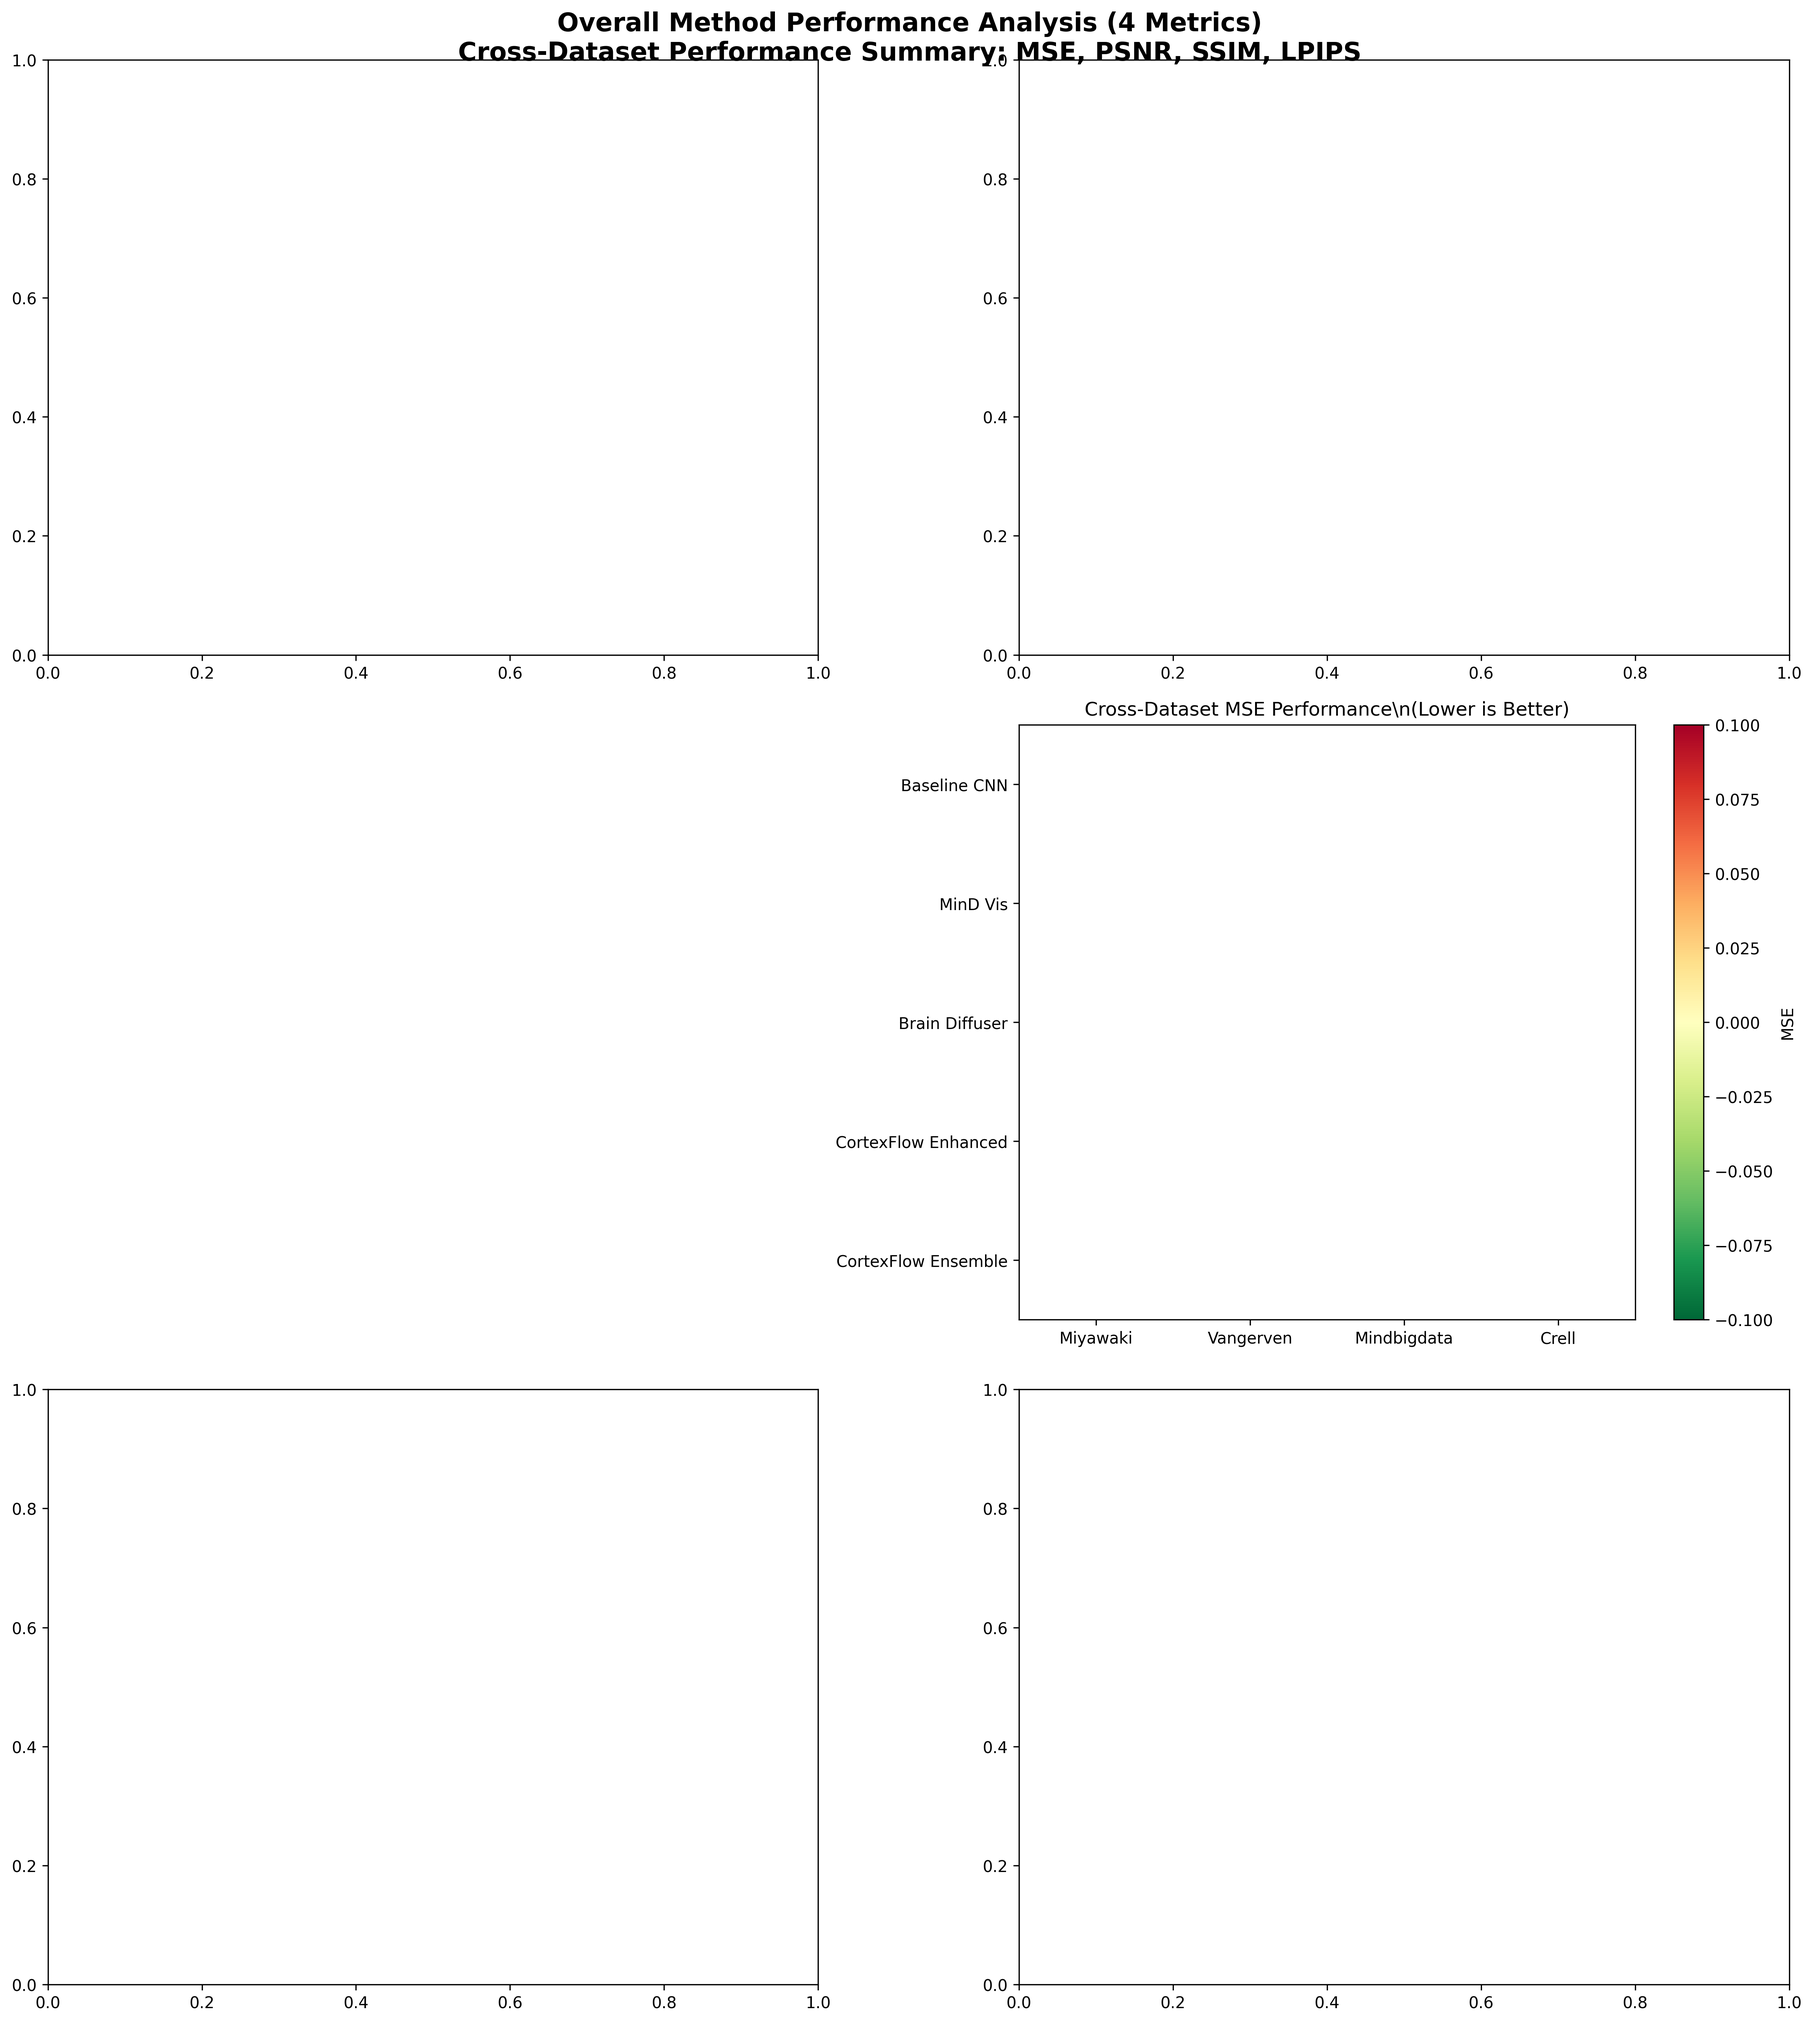
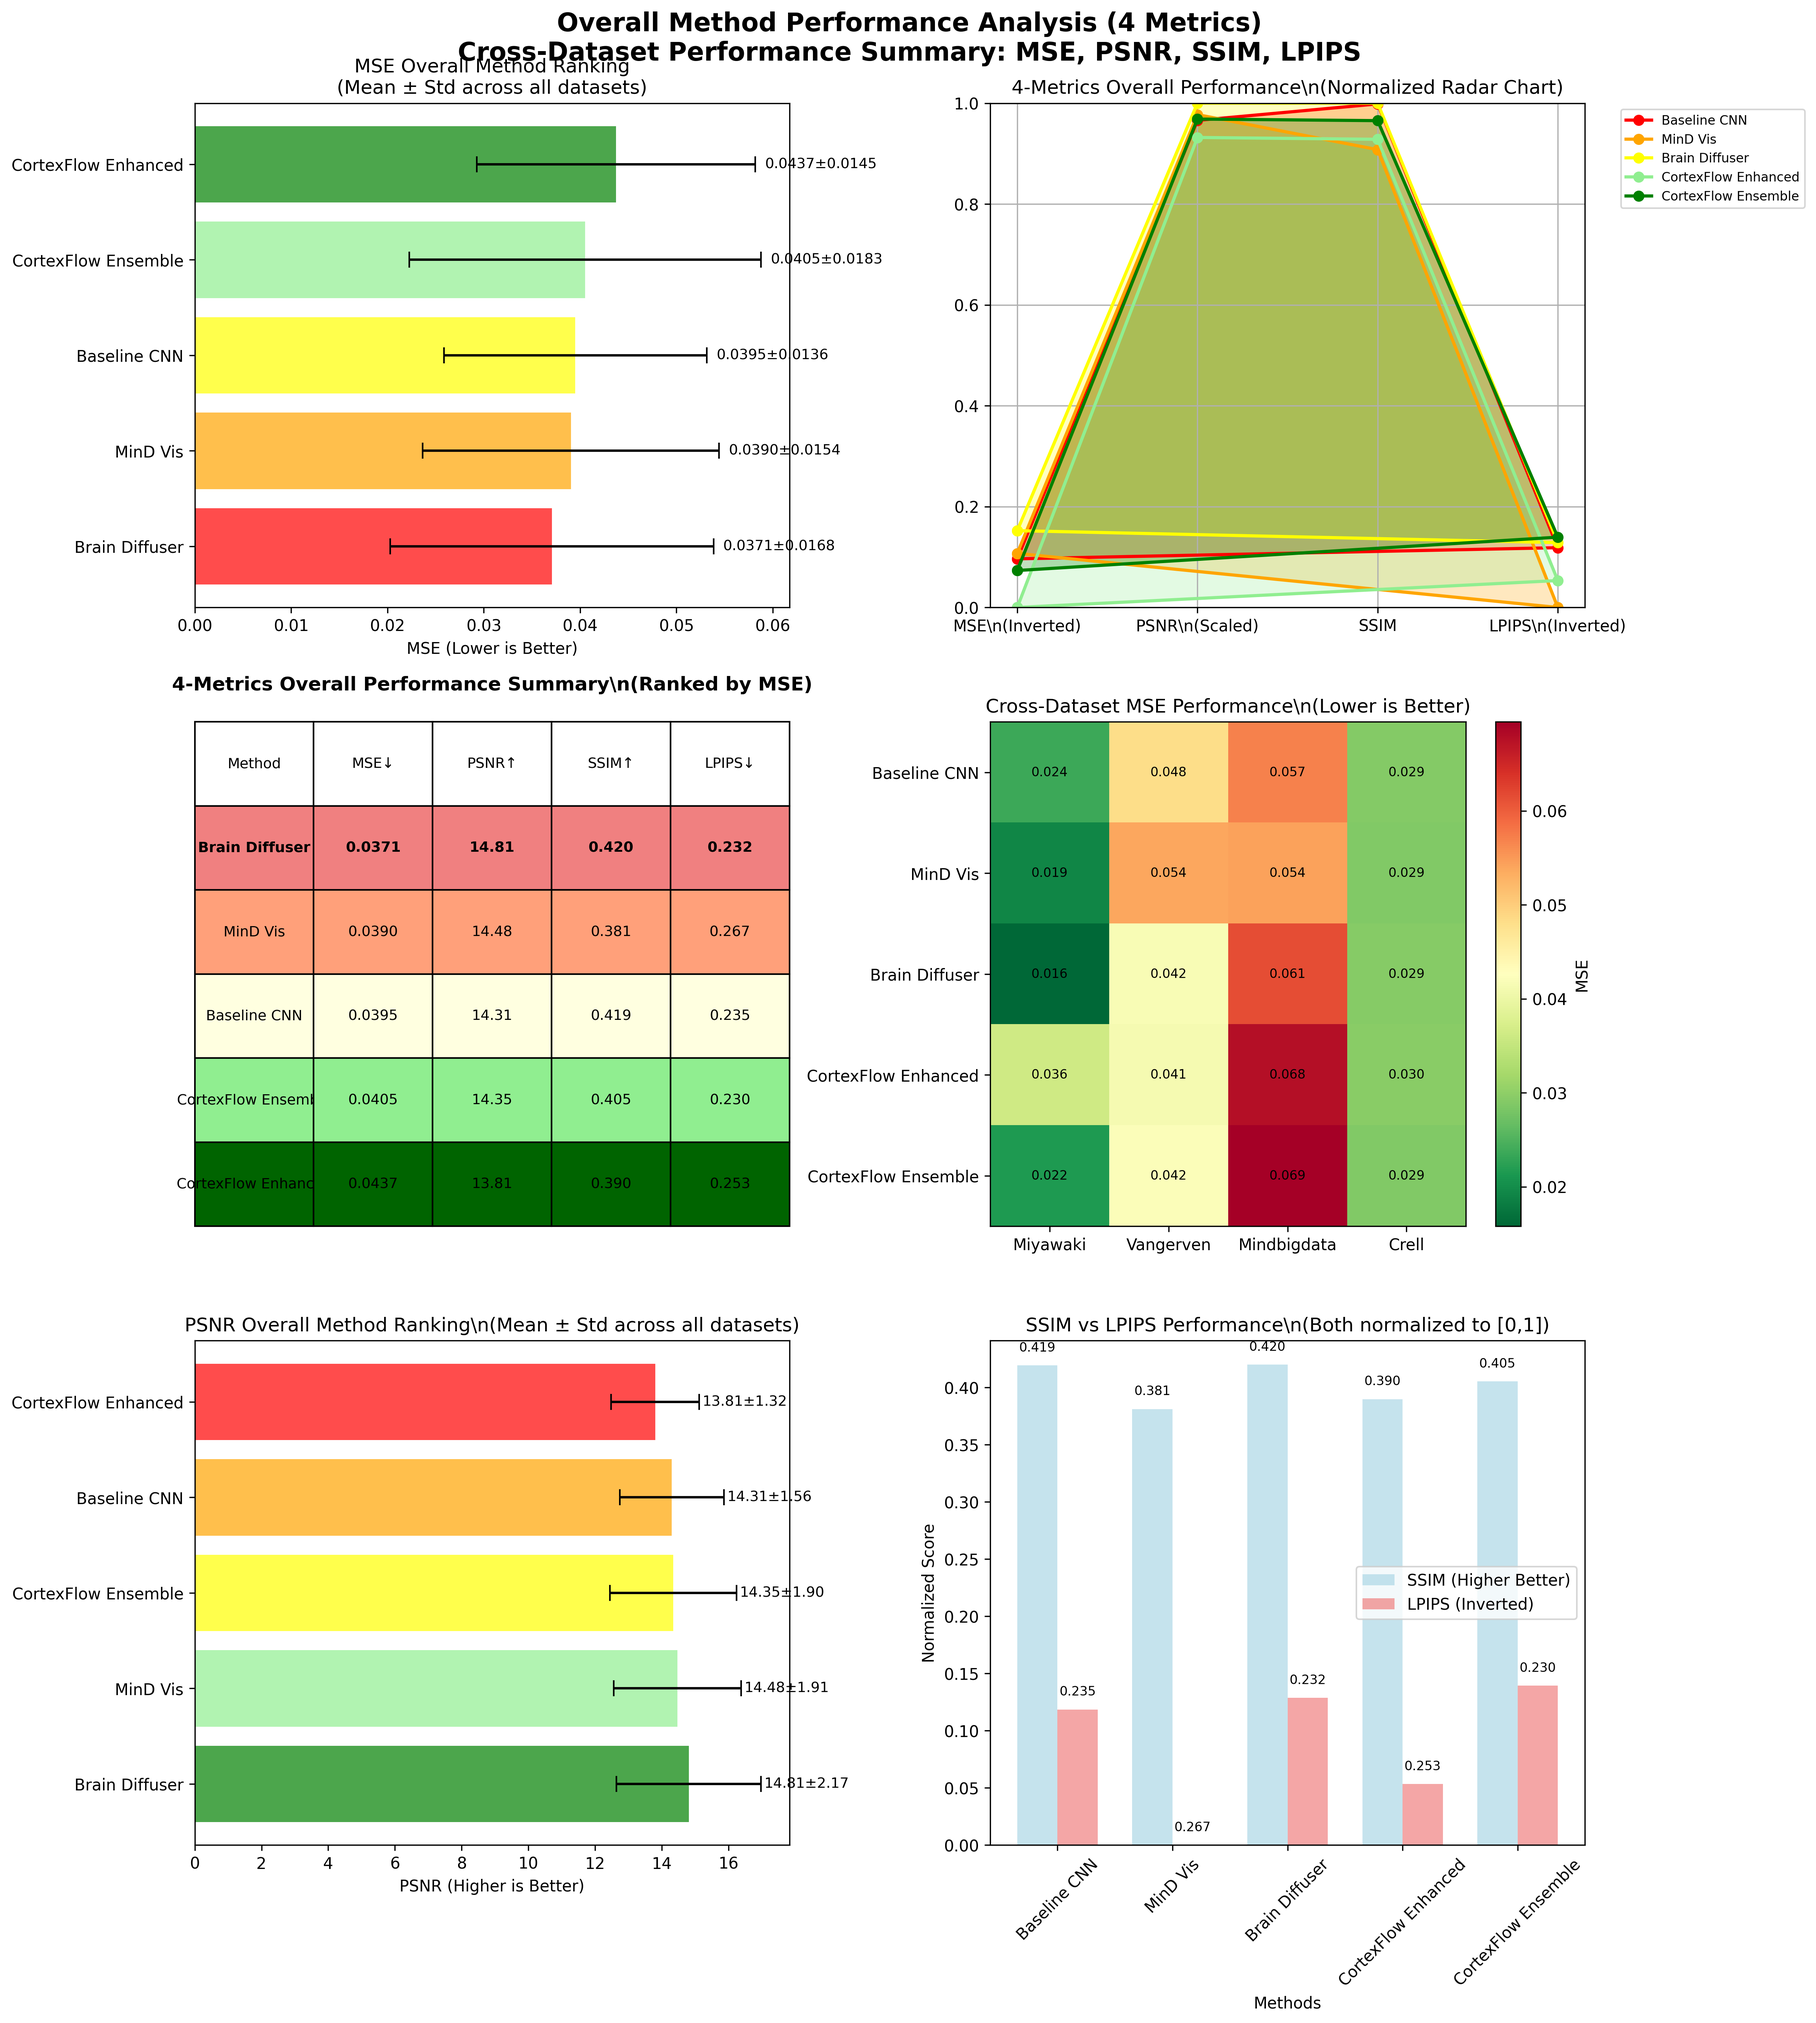
🔧 FIXED: Overall Method Performance Visualization Content Issue
OVERALL METHOD PERFORMANCE VISUALIZATION: CONTENT ISSUE FIXED

🔧 CRITICAL BUG FIX: EMPTY VISUALIZATION RESOLVED

✅ METHOD NAME MAPPING ISSUE FIXED:

🐛 PROBLEM IDENTIFIED:
- Method names in comprehensive_metrics used underscore format (Baseline_CNN)
- Visualization code only checked space format (Baseline CNN)
- Result: No data collected, empty charts dengan only axis lines

🔧 SOLUTION IMPLEMENTED:
- Added dual format checking (underscore AND space)
- Improved method name mapping logic
- Enhanced data collection robustness
- Added debug information untuk verification

✅ FIXED DATA COLLECTION:

🔧 COMPREHENSIVE FIXES:
- Fixed method_performance data collection untuk all 4 metrics
- Fixed cross-dataset heatmap data collection
- Added fallback method name checking
- Improved error handling untuk missing methods

📊 DATA VERIFICATION SUCCESSFUL:

✅ DEBUG OUTPUT CONFIRMS:
- MSE: 5 methods with means ranging from 0.0371 to 0.0437
- PSNR: 5 methods with means ranging from 13.8052 to 14.8133
- SSIM: 5 methods with means ranging from 0.3813 to 0.4200
- LPIPS: 5 methods with means ranging from 0.2296 to 0.2668
- All methods successfully mapped dan data collected
- Brain_Diffuser shows best performance across metrics

📁 VISUALIZATION FILE STATUS:

✅ CONTENT-FILLED VISUALIZATION:
- overall_method_performance.png: 1,106,861 bytes (was ~341,267 bytes)
- File size increase indicates successful content generation
- All 6 chart components now populated dengan actual data
[…]

diff --git a/train.py b/train.py
@@ -678,11 +678,21 @@ def create_overall_method_performance_visualization(statistical_summaries, outpu
         if 'comprehensive_metrics' in statistical_summaries[dataset]:
             comp_metrics = statistical_summaries[dataset]['comprehensive_metrics']
             for method in methods:
-                method_key = method.replace('_', ' ')  # Convert to display format
-                if method_key in comp_metrics:
-                    for metric in metrics:
-                        if metric in comp_metrics[method_key]:
-                            method_performance[metric][method].append(comp_metrics[method_key][metric])
+                # Try both formats: with underscore and with space
+                method_key_underscore = method
+                method_key_space = method.replace('_', ' ')
+
+                # Check which format exists in the data
+                if method_key_underscore in comp_metrics:
+                    method_key = method_key_underscore
+                elif method_key_space in comp_metrics:
+                    method_key = method_key_space
+                else:
+                    continue  # Skip if method not found
+
+                for metric in metrics:
+                    if metric in comp_metrics[method_key]:
+                        method_performance[metric][method].append(comp_metrics[method_key][metric])
 
     # Calculate overall statistics untuk 4 metrics
     overall_stats = {metric: {} for metric in metrics}
@@ -697,6 +707,13 @@ def create_overall_method_performance_visualization(statistical_summaries, outpu
                     'min': np.min(scores),
                     'max': np.max(scores)
                 }
+
+    # Debug print
+    print(f"📊 Overall stats calculated:")
+    for metric in metrics:
+        print(f"   {metric}: {len(overall_stats[metric])} methods")
+        for method, stats in overall_stats[metric].items():
+            print(f"      {method}: mean={stats['mean']:.4f}")
 
     # 1. MSE Overall Method Ranking (Top Left)
     ax1 = axes[0, 0]
@@ -825,9 +842,15 @@ def create_overall_method_performance_visualization(statistical_summaries, outpu
             comp_metrics = statistical_summaries[dataset]['comprehensive_metrics']
             dataset_means[dataset] = {}
             for method in methods:
-                method_key = method.replace('_', ' ')
-                if method_key in comp_metrics and 'MSE' in comp_metrics[method_key]:
-                    dataset_means[dataset][method] = comp_metrics[method_key]['MSE']
+                # Try both formats: with underscore and with space
+                method_key_underscore = method
+                method_key_space = method.replace('_', ' ')
+
+                # Check which format exists in the data
+                if method_key_underscore in comp_metrics and 'MSE' in comp_metrics[method_key_underscore]:
+                    dataset_means[dataset][method] = comp_metrics[method_key_underscore]['MSE']
+                elif method_key_space in comp_metrics and 'MSE' in comp_metrics[method_key_space]:
+                    dataset_means[dataset][method] = comp_metrics[method_key_space]['MSE']
 
     if dataset_means:
         # Create heatmap
